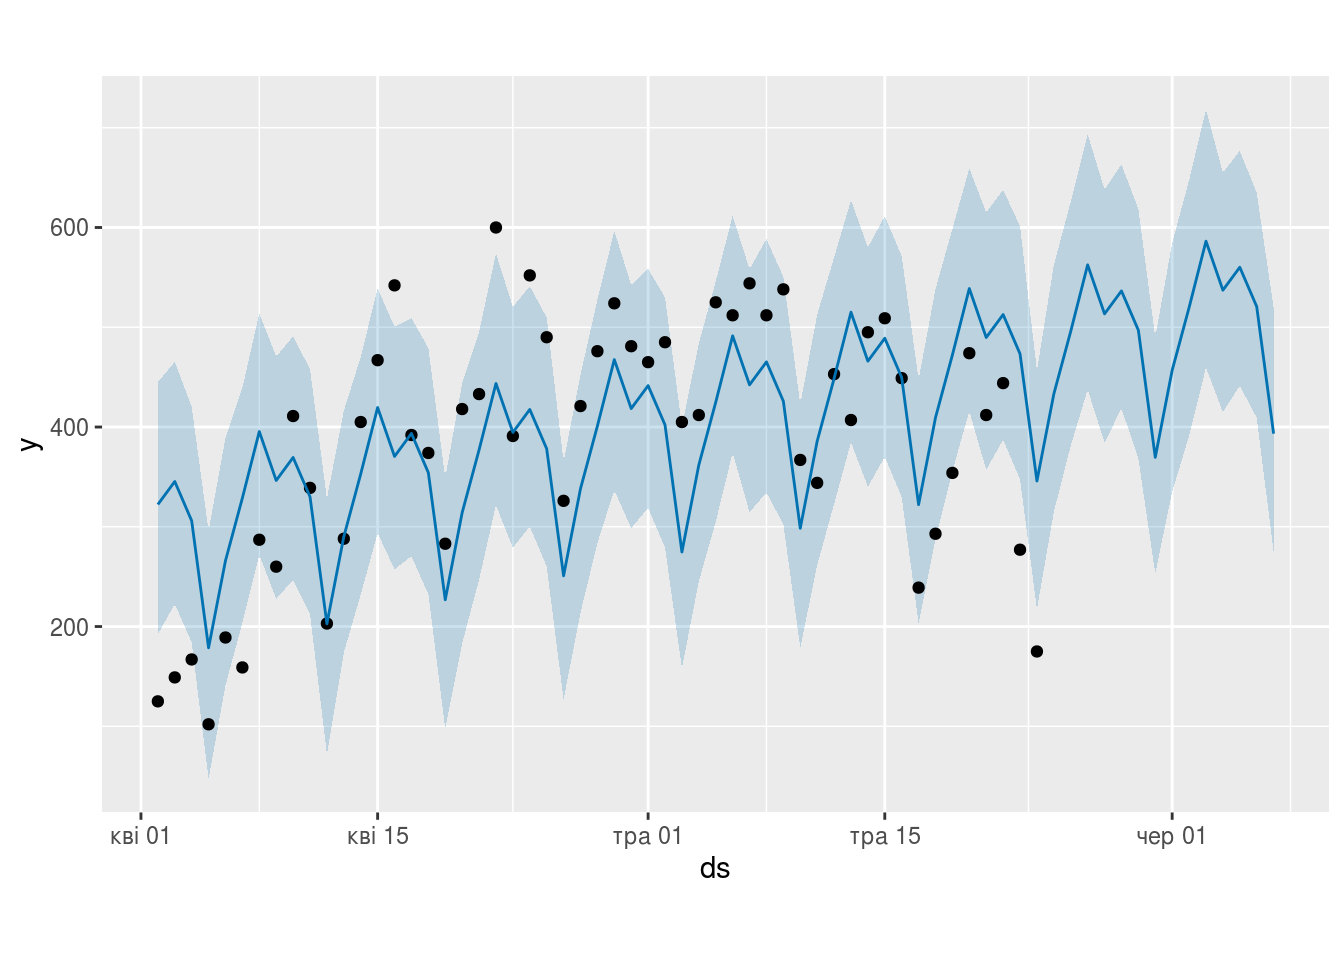
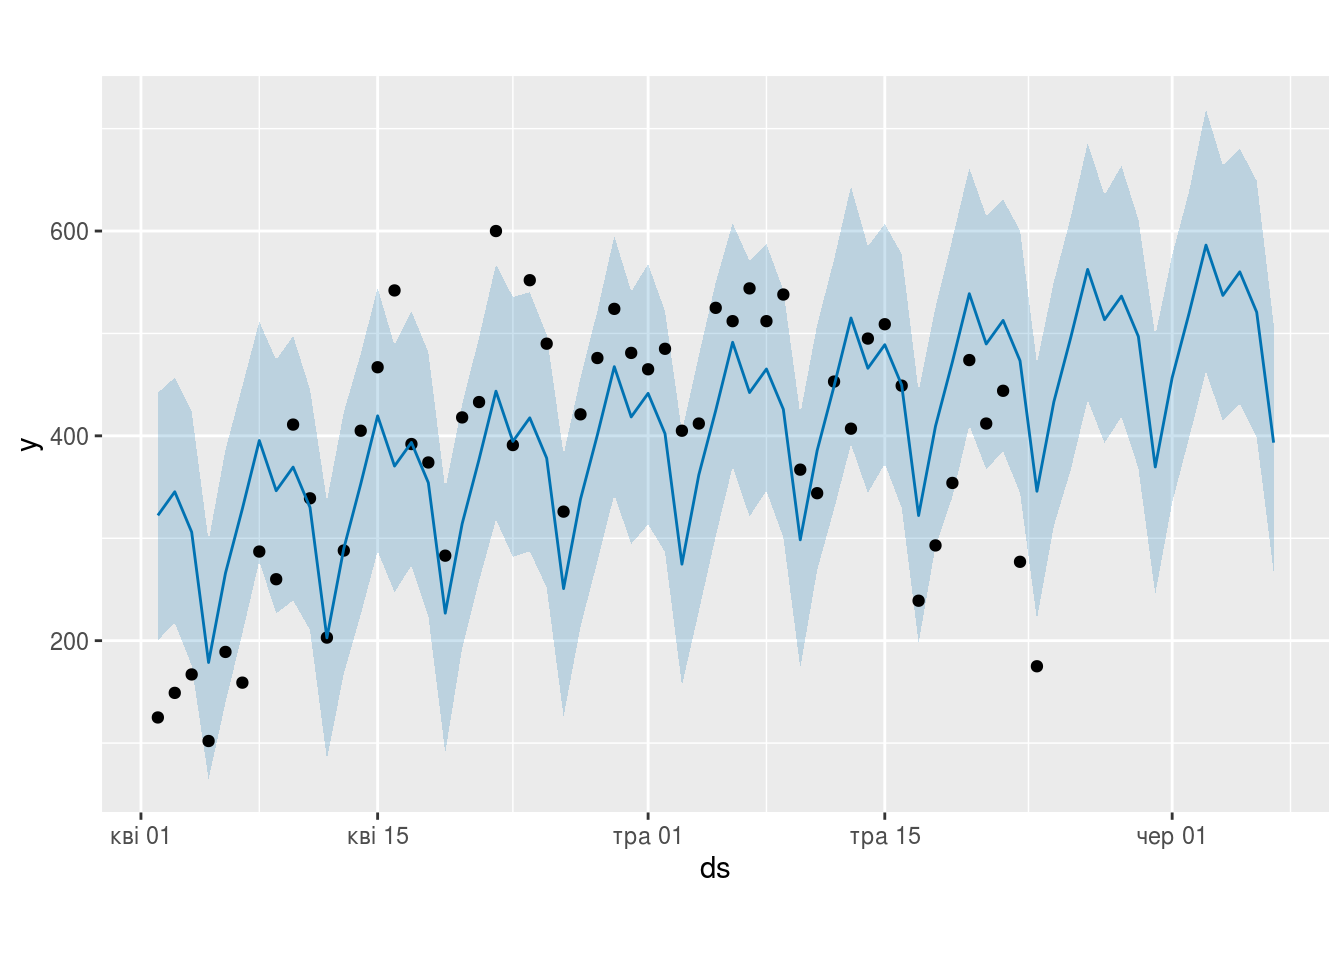
changes in prophet

diff --git a/docs/forecast_prophet.md b/docs/forecast_prophet.md
@@ -123,12 +123,12 @@ tail(forecast[c('ds', 'yhat', 'yhat_lower', 'yhat_upper')])
 ```
 
     ##            ds     yhat yhat_lower yhat_upper
-    ## 62 2020-06-02 519.6943   391.0029   647.2796
-    ## 63 2020-06-03 586.2447   459.6499   718.2326
-    ## 64 2020-06-04 537.1718   414.9003   654.9671
-    ## 65 2020-06-05 560.1487   441.4266   676.8701
-    ## 66 2020-06-06 520.7512   409.3582   634.7605
-    ## 67 2020-06-07 393.3554   274.9416   519.8033
+    ## 62 2020-06-02 519.6943   397.8697   638.5647
+    ## 63 2020-06-03 586.2447   462.7451   718.6403
+    ## 64 2020-06-04 537.1718   414.6171   663.9287
+    ## 65 2020-06-05 560.1487   431.8574   680.4517
+    ## 66 2020-06-06 520.7512   398.5957   649.0729
+    ## 67 2020-06-07 393.3554   267.4790   509.1515
 
 You can use the generic plot function to plot the forecast, by passing in the model and the forecast dataframe.
 
